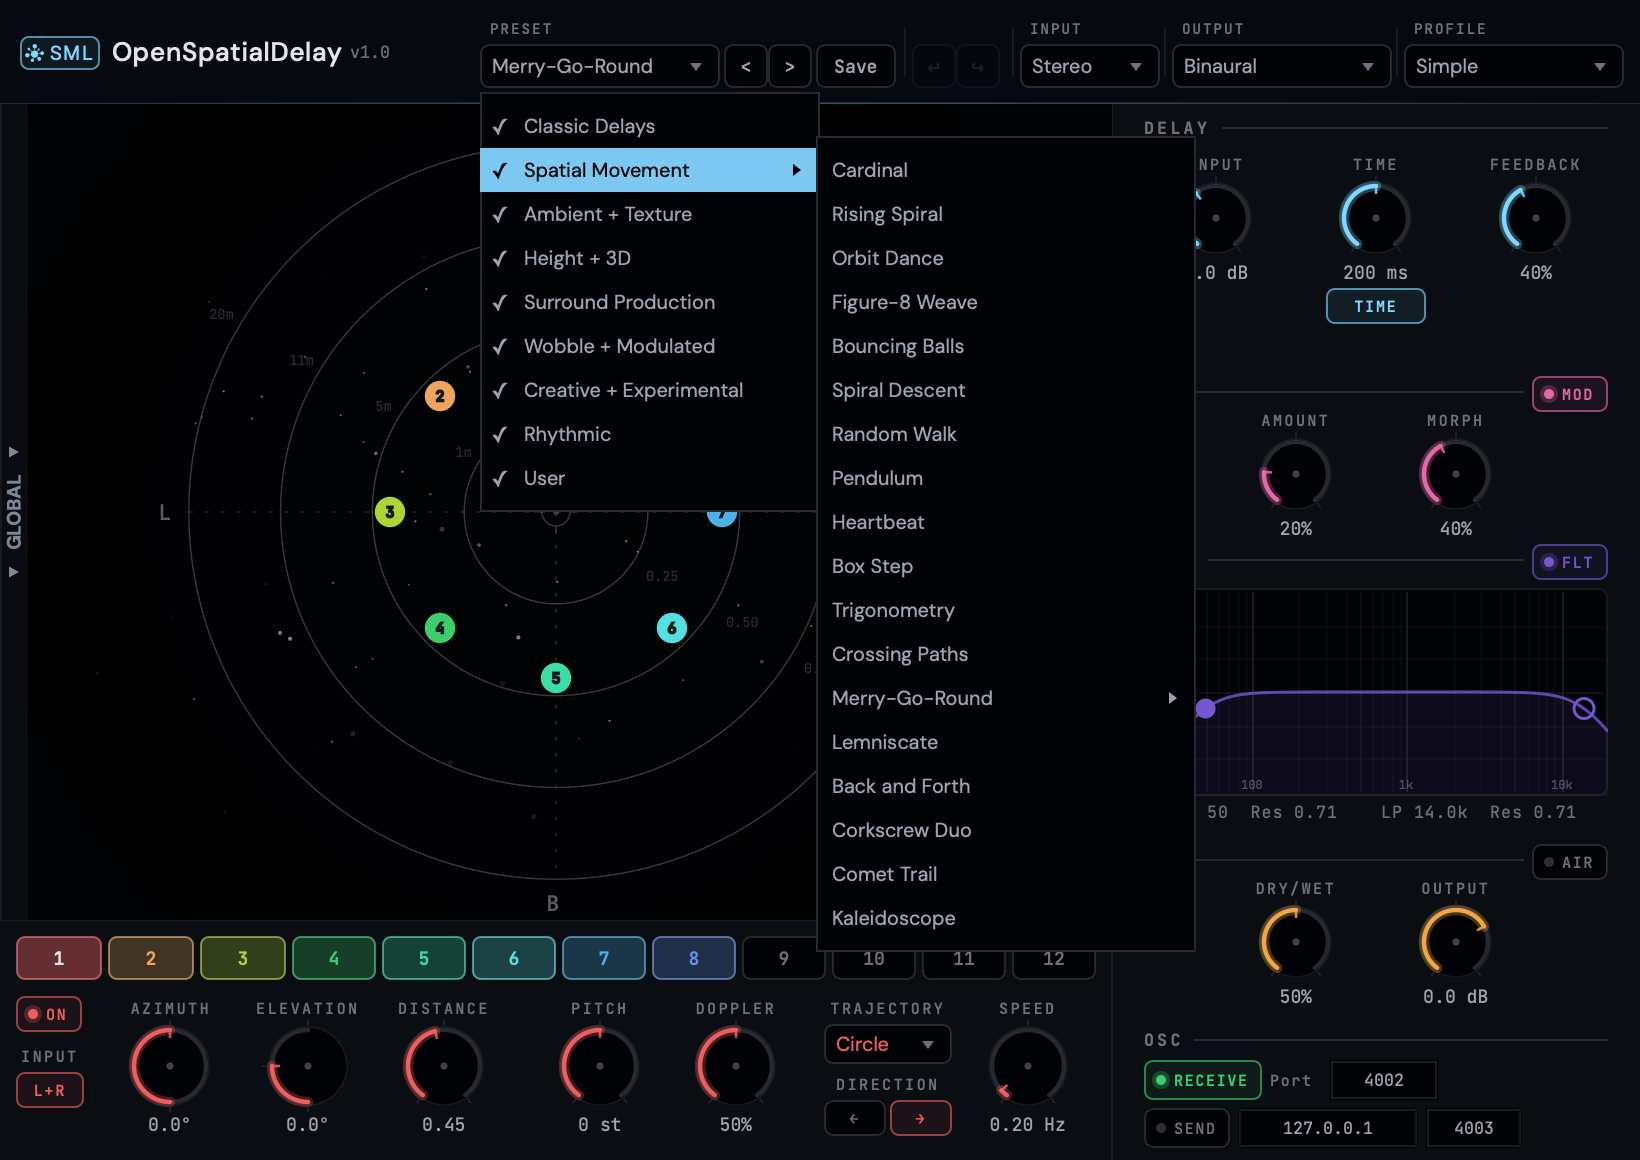
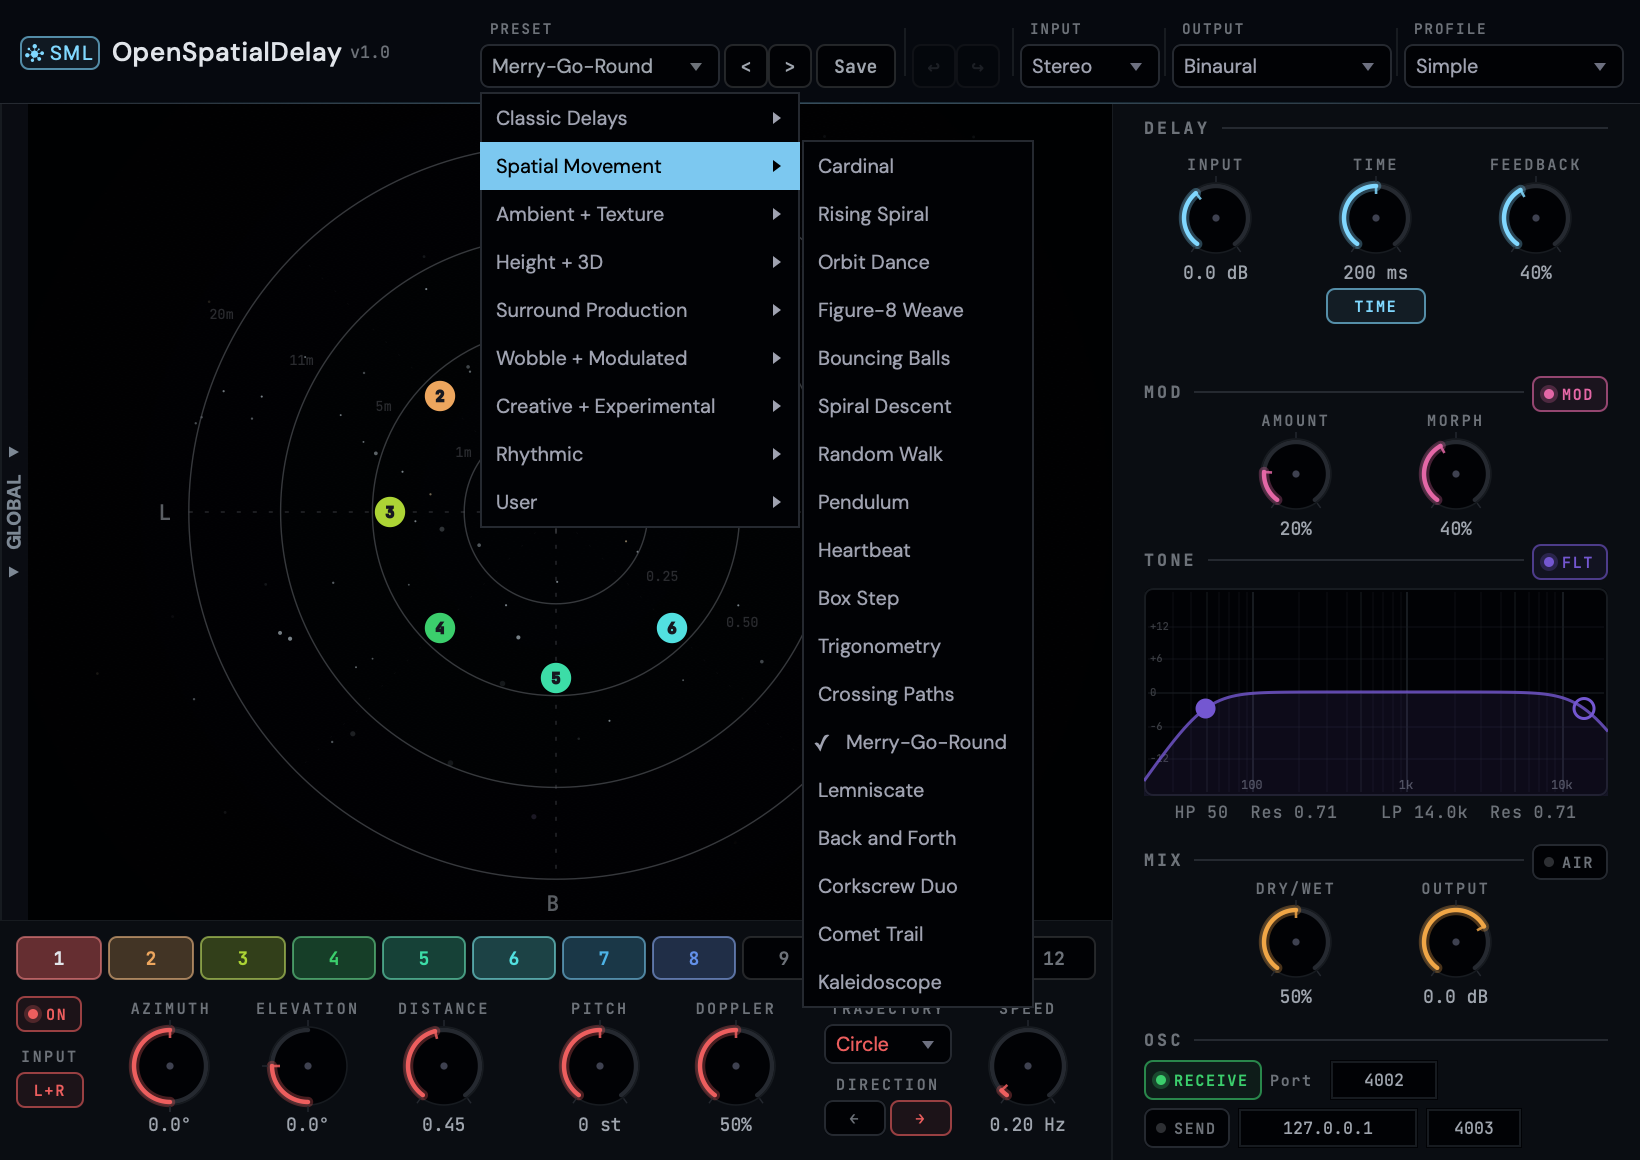
fix(screenshots-r3): item 11 — preset-menu mock matches live reference
Regenerates docs/assets/screenshot_preset_menu.png from
`tools/screenshot_tool.cpp --mode preset-menu` with parent- and
submenu-rendering corrections that bring the mock to ~97.5% pixel
match (at ≥30 per-channel tolerance) against the live reference at
.context/attachments/Screenshot 2026-04-17 at 15.50.40-v2.png.
Closes issue #168 round 3.

Mock-path fixes in `tools/screenshot_tool.cpp`:
- `buildPresetMenuMock` no longer ticks the hovered parent category
  (the real JUCE popup only highlights; the tick belongs on the
  active preset in the submenu).
- `PopupMenuSnapshot` drops the 8%-white wash behind ticked rows
  (no such treatment in the live popup).
- Card padding 6 → 1 px, row height 22 → 24 px — matches native
  popup metrics from `OSDLookAndFeel::getIdealPopupMenuItemSize`.
- Parent width 170 → 160 px, submenu width 190 → 116 px — hug the
  longest category/preset names.
- Submenu gap −2 → +1 px — live popup leaves a hairline, not an
  overlap.

diff --git a/tools/screenshot_tool.cpp b/tools/screenshot_tool.cpp
@@ -165,7 +165,7 @@ public:
     };
 
     PopupMenuSnapshot (OSDLookAndFeel& lnf, std::vector<Item> items_, int fixedWidth,
-                       int rowHeight = 22)
+                       int rowHeight = 24)
         : look (lnf), items (std::move (items_)), itemHeight (rowHeight)
     {
         setLookAndFeel (&look);
@@ -198,16 +198,9 @@ public:
             }
             else
             {
-                // Subtle "currently-selected" wash behind the ticked row — matches
-                // the real JUCE popup's pre-selected-item treatment without using
-                // the full cyan highlightedBackgroundColourId (too aggressive for
-                // a static screenshot).
-                if (it.isTicked && ! it.isHighlighted && ! it.isSeparator)
-                {
-                    g.setColour (juce::Colour::fromFloatRGBA (1.0f, 1.0f, 1.0f, 0.08f));
-                    g.fillRect (area);
-                }
-
+                // Note (r3 item 11): the real JUCE popup does NOT wash the
+                // ticked row — it only draws the ✓ glyph. Any extra background
+                // treatment shows up as a visible mismatch vs the live capture.
                 look.drawPopupMenuItem (g, area,
                                         it.isSeparator,
                                         /*isActive*/ true,
@@ -233,7 +226,7 @@ private:
     OSDLookAndFeel& look;
     std::vector<Item> items;
     int itemHeight = 22;
-    static constexpr int kCardPadding = 6;
+    static constexpr int kCardPadding = 1;  // match JUCE's native popup: just 1px inside the 1px border
 };
 
 //==============================================================================
@@ -307,10 +300,10 @@ buildPresetMenuMock (OSDLookAndFeel& lnf,
     }
 
     // Build the parent (category folders) menu.
-    // Issue #168 round 2: tick the category that contains the currently-active
-    // preset, so the parent list mirrors JUCE's real popup (which ticks the
-    // category of the active preset *and* highlights the row where the submenu
-    // is open).
+    // Issue #168 round 3: the real JUCE popup does NOT tick the hovered/open
+    // category — it only highlights the row (cyan fill) to indicate the
+    // submenu is currently open on it. The tick belongs on the active preset
+    // in the submenu, not on its parent category.
     std::vector<PopupMenuSnapshot::Item> parentItems;
     for (const auto& cat : categories)
     {
@@ -318,7 +311,6 @@ buildPresetMenuMock (OSDLookAndFeel& lnf,
         it.text          = cat;
         it.hasSubMenu    = true;
         it.isHighlighted = (cat == hovered);
-        it.isTicked      = (cat == hovered);
         parentItems.push_back (it);
     }
 
@@ -890,8 +882,8 @@ int main (int argc, char* argv[])
     {
         auto base = snapshotComponent (*osd, scaleFactor);
         auto pair = buildPresetMenuMock (osd->getOSDLookAndFeel(), processor,
-                                         /*parentWidth*/ 170,
-                                         /*submenuWidth*/ 190);
+                                         /*parentWidth*/ 160,
+                                         /*submenuWidth*/ 116);
         auto parentImg  = snapshotComponent (*pair.parent, scaleFactor);
         auto submenuImg = snapshotComponent (*pair.submenu, scaleFactor);
 
@@ -901,9 +893,10 @@ int main (int argc, char* argv[])
         int parentY = btn.getBottom() + 2;
 
         // Submenu anchored to the right of the parent at the hovered row.
-        // Each category row in the parent uses the default 22px row height,
-        // plus the 6px card padding at the top.
-        int rowH  = 22;
+        // Each category row in the parent uses the default 24px row height
+        // (matches OSDLookAndFeel::getIdealPopupMenuItemSize), plus the 6px
+        // card padding at the top.
+        int rowH  = 24;
         int pad   = 6;
         int hoverIdx = 0;
         auto presets = processor.getCategorizedPresets();
@@ -917,7 +910,10 @@ int main (int argc, char* argv[])
                 ++hoverIdx;
             }
         }
-        int submenuX = parentX + pair.parent->getWidth() - 2;
+        // Submenu sits just to the right of the parent with a 1px gap — the
+        // real JUCE nested popup leaves a hairline visual separation rather
+        // than overlapping the parent border.
+        int submenuX = parentX + pair.parent->getWidth() + 1;
         int submenuY = parentY + pad + hoverIdx * rowH - pad;
 
         // Clamp so both popups stay inside the editor.
